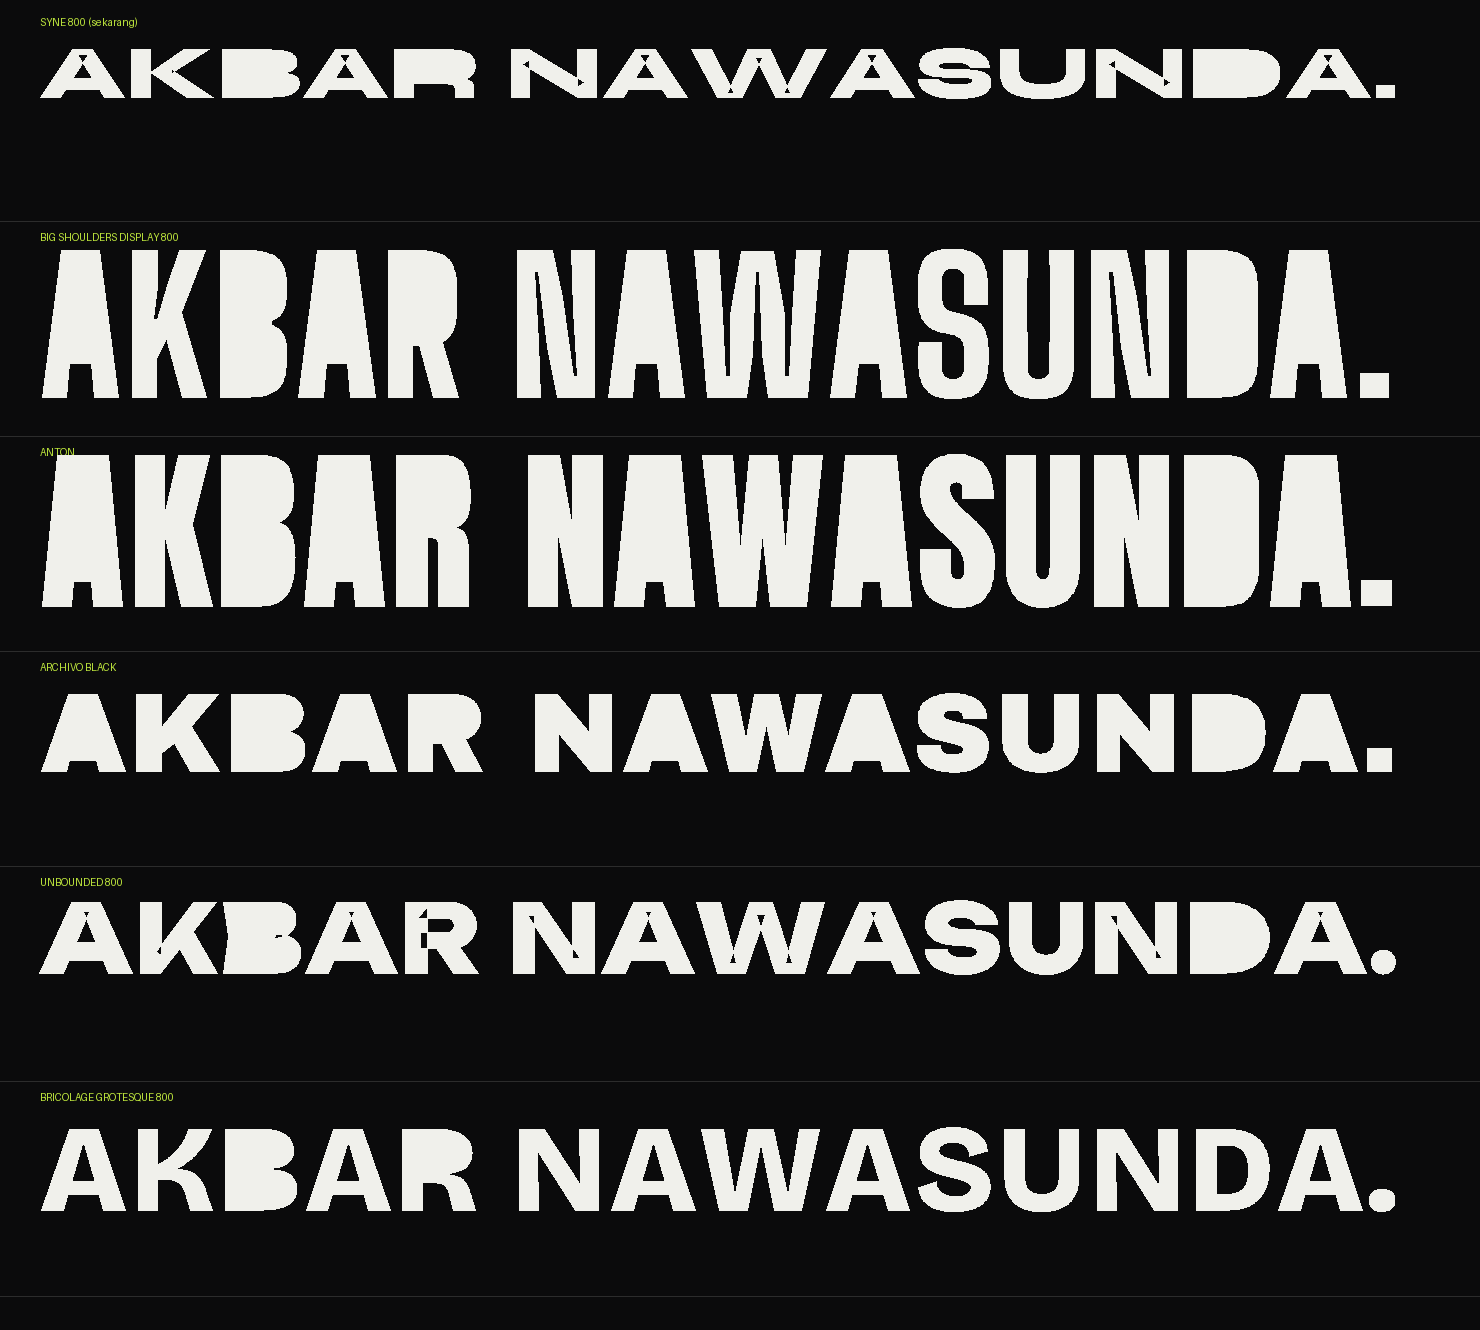
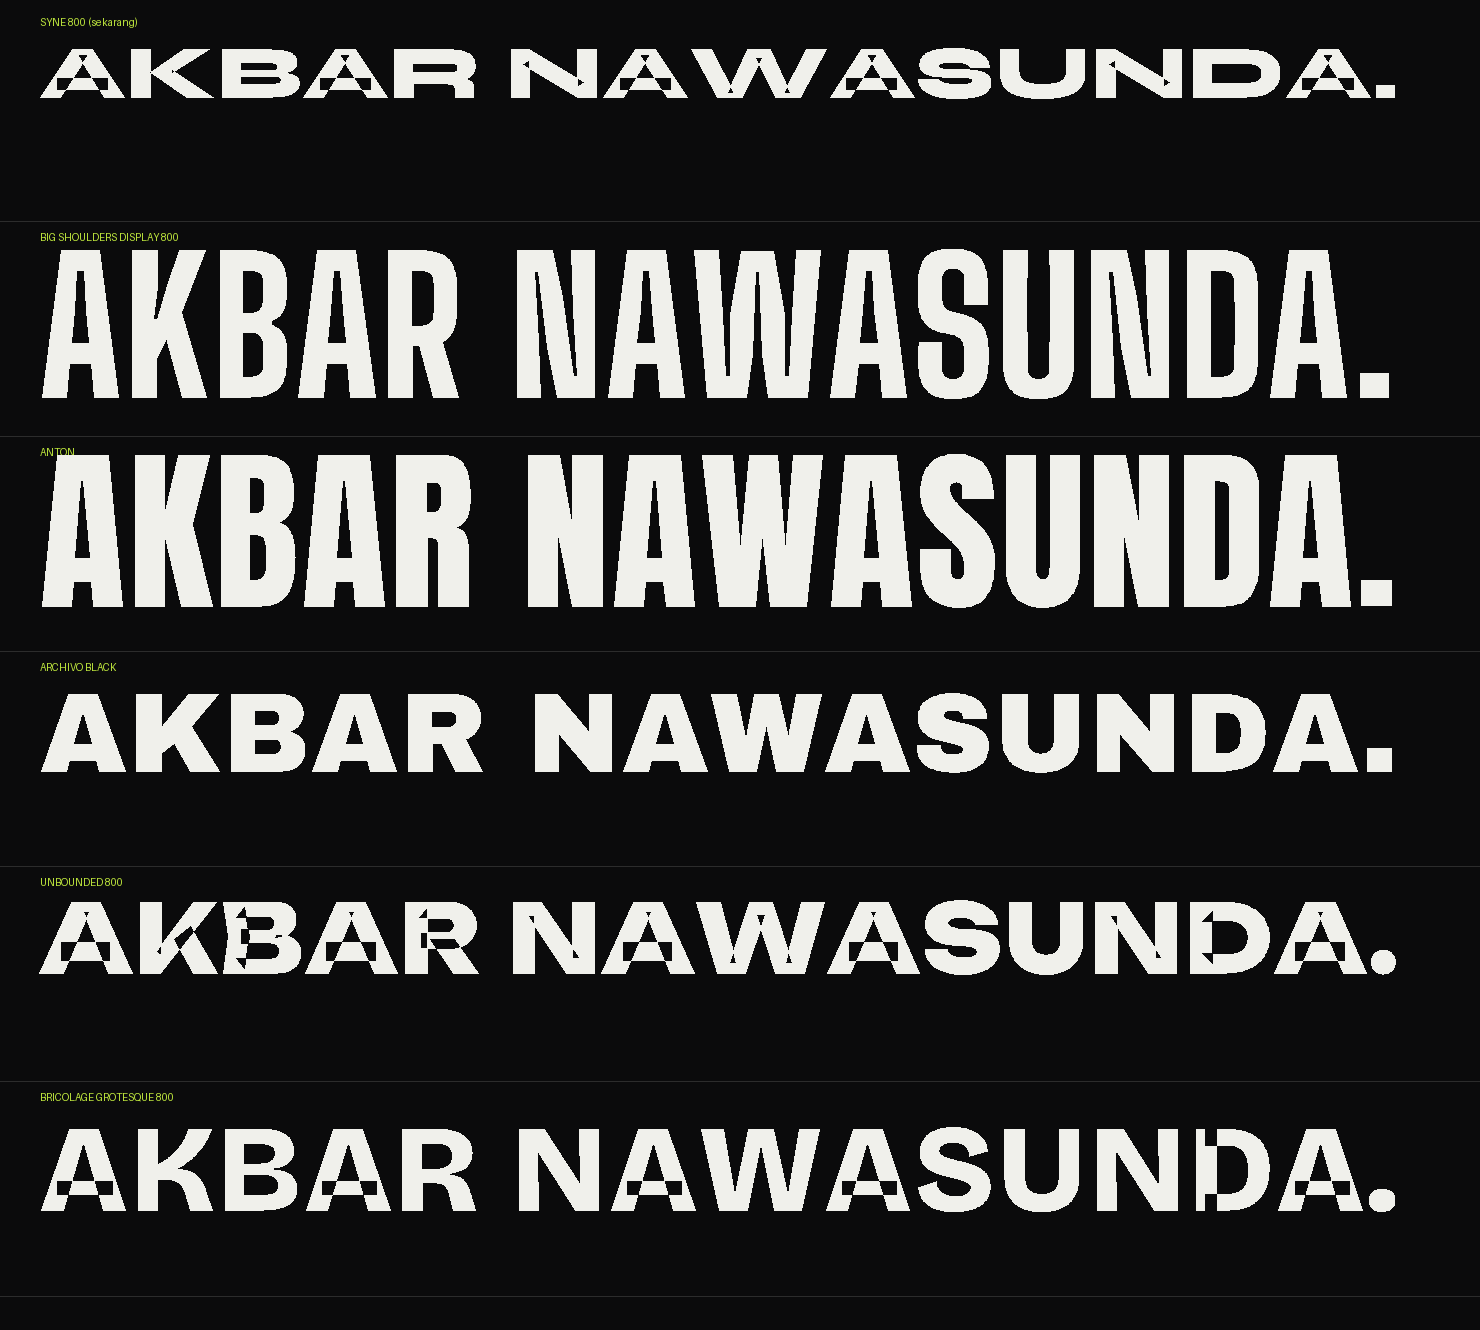
Fase 6F: splash tidak lagi terpotong di desktop, versi ringkas untuk kunjungan ulang, bukti font dirender ulang

diff --git a/client/index.html b/client/index.html
@@ -94,7 +94,9 @@
       .an-splash-inner {
         position: relative;
         z-index: 1;
-        width: min(92%, 560px);
+        /* 1100px, bukan 560px: wordmark splash jauh lebih besar sejak
+           Fase 6E dan kotak lama memotongnya di desktop. */
+        width: min(92vw, 1100px);
         padding: 0 4vw;
       }
       .an-splash-top {
@@ -141,15 +143,22 @@
           -apple-system,
           sans-serif;
         font-weight: 800;
-        font-size: clamp(4.4rem, 25vw, 12rem);
+        /* Ukuran DITURUNKAN dari lebar kotaknya sendiri, bukan ditebak dari
+           lebar layar. "Nawasunda" memakai 4,53em pada tracking +0,02em
+           (diukur dari big-shoulders-display-800.woff2); pembagi 4,6 memberi
+           sisa ±1,5%. Dengan rumus ini kata itu MUSTAHIL terpotong di lebar
+           berapa pun — inilah penyebab splash kepotong di desktop tapi utuh
+           di ponsel. */
+        font-size: max(2.4rem, calc((min(92vw, 1100px) - 8vw) / 4.6));
         line-height: 0.94;
         letter-spacing: 0.02em;
         text-transform: uppercase;
         transform: translateY(105%);
-        animation: an-splash-rise 0.86s cubic-bezier(0.16, 1, 0.3, 1) forwards;
+        animation: an-splash-rise 0.72s cubic-bezier(0.16, 1, 0.3, 1) 0.3s
+          forwards;
       }
       .an-splash-line:nth-child(3) .an-splash-word {
-        animation-delay: 0.08s;
+        animation-delay: 0.4s;
       }
       @keyframes an-splash-rise {
         to {
@@ -165,13 +174,41 @@
         line-height: 1.9;
         color: #9bb9c1;
         clip-path: inset(0 100% 0 0);
-        animation: an-splash-write 0.9s cubic-bezier(0.22, 1, 0.36, 1) 0.22s
-          forwards;
+        /* Beat pertama: aksara ditulis lebih dulu, baru nama Latin naik.
+           Yang memimpin layar pembuka adalah identitasnya, bukan wordmark. */
+        animation: an-splash-write 0.62s cubic-bezier(0.22, 1, 0.36, 1) forwards;
       }
       @keyframes an-splash-write {
         to {
           clip-path: inset(0 0 0 0);
         }
+      }
+
+      /* Versi ringkas (kunjungan ke-2 dalam satu sesi): isi pendukung
+         disembunyikan, sekuens dipercepat ±3×. Tetap nama dalam aksara,
+         tetap satu gerakan — hanya lebih singkat. */
+      #akbar-preloader.an-splash-quick .an-splash-top,
+      #akbar-preloader.an-splash-quick .an-splash-steps,
+      #akbar-preloader.an-splash-quick .an-splash-meter,
+      #akbar-preloader.an-splash-quick .an-splash-caption,
+      #akbar-preloader.an-splash-quick .an-splash-birthday {
+        display: none;
+      }
+      #akbar-preloader.an-splash-quick .an-splash-aksara {
+        animation-duration: 0.26s;
+      }
+      #akbar-preloader.an-splash-quick .an-splash-word {
+        animation-duration: 0.3s;
+        animation-delay: 0.12s;
+      }
+      #akbar-preloader.an-splash-quick
+        .an-splash-line:nth-child(3)
+        .an-splash-word {
+        animation-delay: 0.18s;
+      }
+      #akbar-preloader.an-splash-quick .an-splash-rule {
+        animation-duration: 0.34s;
+        animation-delay: 0.22s;
       }
 
       /* Pola langkah drum: delapan ketukan yang menyala berurutan. */
@@ -230,7 +267,7 @@
         background: #9bb9c1;
         transform-origin: left center;
         transform: scaleX(0);
-        animation: an-splash-wipe 1.1s cubic-bezier(0.22, 1, 0.36, 1) 0.18s
+        animation: an-splash-wipe 0.78s cubic-bezier(0.22, 1, 0.36, 1) 0.62s
           forwards;
       }
       @keyframes an-splash-wipe {
@@ -348,8 +385,8 @@
           >ᮃᮊ᮪ᮘᮁ ᮔᮝᮞᮥᮔ᮪ᮓ</span
         >
         <div class="an-splash-steps" aria-hidden="true">
-          <span></span><span></span><span></span><span></span>
-          <span></span><span></span><span></span><span></span>
+          <span></span><span></span><span></span><span></span> <span></span
+          ><span></span><span></span><span></span>
         </div>
         <div class="an-splash-rule" aria-hidden="true"></div>
         <div class="an-splash-meter" aria-hidden="true">
@@ -430,7 +467,8 @@
               var out = {};
               var parts = jakartaFormat.formatToParts(date);
               for (var i = 0; i < parts.length; i++) {
-                if (parts[i].type !== "literal") out[parts[i].type] = parts[i].value;
+                if (parts[i].type !== "literal")
+                  out[parts[i].type] = parts[i].value;
               }
               return {
                 h: Number(out.hour) % 24,
@@ -473,9 +511,16 @@
               pad(stamp.h) + "." + pad(stamp.m) + "." + pad(stamp.s);
           }
           if (dateEl) {
-            var day = stamp.weekday ? stamp.weekday.toUpperCase().slice(0, 3) + " · " : "";
+            var day = stamp.weekday
+              ? stamp.weekday.toUpperCase().slice(0, 3) + " · "
+              : "";
             dateEl.textContent =
-              day + stamp.day + " " + MONTHS[stamp.month - 1].toUpperCase() + " " + stamp.year;
+              day +
+              stamp.day +
+              " " +
+              MONTHS[stamp.month - 1].toUpperCase() +
+              " " +
+              stamp.year;
           }
           // 1 November waktu Jakarta: situs merayakan sendiri, tiap tahun.
           if (stamp.month === 11 && stamp.day === 1) {
@@ -496,18 +541,27 @@
           }
         }
 
-        if (seen || reduced) {
+        if (reduced) {
           window.__dismissAkbarPreloader = drop;
           drop();
           return;
         }
 
+        // Kunjungan kedua dalam satu sesi TIDAK lagi melewatkan splash diam-
+        // diam — dulu inilah sebabnya layar pembuka terasa "tidak ada" di
+        // desktop (sekali reload, hilang selamanya sampai tab ditutup).
+        // Sekarang ia tampil ringkas: hanya aksara + nama, ±0,46 dtk.
+        if (seen) preloader.classList.add("an-splash-quick");
+
         var dismissed = false;
         var shownAt = Date.now();
         // Durasi splash: minimal 1.4 detik supaya seluruh sekuens terbaca,
         // dan tidak pernah lebih dari 2.2 detik.
-        var MIN_VISIBLE = 1400;
-        var MAX_VISIBLE = 2200;
+        // Sekuens penuh selesai di ±1,25 dtk (aksara 0-0,62; nama 0,3-1,12;
+        // garis 0,62-1,40). MIN_VISIBLE tidak boleh lebih pendek dari itu,
+        // kalau tidak animasinya terpotong di tengah pada koneksi cepat.
+        var MIN_VISIBLE = seen ? 460 : 1450;
+        var MAX_VISIBLE = seen ? 900 : 2200;
 
         // Angka durasi = waktu yang benar-benar berjalan sejak splash tampil.
         function paintProgress() {

diff --git a/server/editorialRedesign.test.ts b/server/editorialRedesign.test.ts
@@ -189,14 +189,20 @@ describe("aset statis redesign", () => {
   const read = (path: string) =>
     readFileSync(resolve(process.cwd(), path), "utf8");
 
-  it("splash hanya tampil sekali per sesi dan punya batas durasi jelas", () => {
+  it("splash punya versi penuh dan versi ringkas dengan batas durasi jelas", () => {
     const indexHtml = read("client/index.html");
     expect(indexHtml).toContain("an-splash-seen");
     expect(indexHtml).toContain("sessionStorage");
-    // Batas durasi splash: minimal 1.4 detik agar sekuens tanda tangan
-    // terbaca, maksimal 2.2 detik sebagai jaring pengaman.
-    expect(indexHtml).toContain("MIN_VISIBLE = 1400");
-    expect(indexHtml).toContain("MAX_VISIBLE = 2200");
+    // KONTRAK BERUBAH (Fase 6F, disengaja): kunjungan kedua dalam satu sesi
+    // dulu melewatkan splash sepenuhnya, dan itu membuat layar pembuka
+    // terasa "tidak ada" di desktop (sekali reload, hilang sampai tab
+    // ditutup). Sekarang kunjungan kedua mendapat versi RINGKAS 460ms,
+    // bukan tidak sama sekali. Kunjungan pertama naik 1400 → 1450ms karena
+    // sekuensnya kini berakhir di ±1,40 dtk; di 1400ms garis terakhirnya
+    // terpotong.
+    expect(indexHtml).toContain("MIN_VISIBLE = seen ? 460 : 1450");
+    expect(indexHtml).toContain("MAX_VISIBLE = seen ? 900 : 2200");
+    expect(indexHtml).toContain("an-splash-quick");
     expect(indexHtml).toMatch(/prefers-reduced-motion: reduce/);
   });
 

diff --git a/docs/phase6f-splash-dan-pertanyaan-font.md b/docs/phase6f-splash-dan-pertanyaan-font.md
@@ -1,0 +1,88 @@
+# Fase 6F — Splash kepotong, splash "tidak ada", dan jawaban soal sumber font
+
+## 1. "Bisa ambil font selain Google Fonts?"
+
+[FACT] Bisa, dan situs ini **sudah** melakukannya: Clash Display, General
+Sans, dan Azeret Mono berasal dari **Fontshare** (Indian Type Foundry), bukan
+Google. Semua font disimpan sebagai berkas di repo
+(`client/public/assets/fonts/`) dan tidak pernah dipanggil dari CDN mana pun.
+
+[FACT] Batasan yang jujur: dari dalam sandbox ini **hanya registry npm yang
+bisa dijangkau** — `api.fontshare.com`, `raw.githubusercontent.com`, dan
+`fonts.gstatic.com` semuanya gagal tersambung (diuji dengan curl; hanya
+`registry.npmjs.org` menjawab 200). Jadi untuk saat ini saya hanya bisa
+mengambil huruf yang diterbitkan ke npm. Itu tetap jauh lebih luas daripada
+Google Fonts: Uncut Sans (uncut.wtf), Commit Mono, Monaspace (GitHub), Geist
+(Vercel) semuanya ada di npm dan bukan huruf Google. Kalau Anda ingin huruf
+berbayar/khusus (Pangram Pangram, Displaay, Grilli, atau huruf pesanan),
+berkasnya cukup Anda kirimkan — pemasangannya sama saja.
+
+## 2. "Font keseluruhan berasa kurang"
+
+[FACT] Saya uji dugaan itu, bukan menuruti atau menolaknya:
+`docs/notes/body-voice-candidates.png` memperlihatkan paragraf dan label yang
+sama dalam tiga pasangan — General Sans + Azeret Mono (sekarang), Uncut Sans
++ Commit Mono, Uncut Sans + Monaspace Neon.
+
+[INTERP] Kesimpulan saya setelah melihatnya: **perbedaannya tipis sekali.**
+Mengganti huruf badan teks tidak akan menyelesaikan rasa "kurang khas"; ia
+hanya memindahkan netralitas dari satu grotesk ke grotesk lain, sambil
+menambah berat unduh dan risiko keterbacaan. Yang benar-benar mengubah watak
+halaman adalah huruf judul (sudah diganti di Fase 6E) dan **cara menyetelnya**
+— ukuran, jarak, warna, ritme. Karena itu saya tidak mengganti huruf badan
+teks, dan ini keputusan, bukan penundaan.
+
+[FACT] Catatan teknis dari proses ini: perender pratinjau saya semula mengisi
+lubang huruf (counter) karena memakai aturan nonzero. Sudah diperbaiki ke
+even-odd, dan **kedua gambar bukti dirender ulang**
+(`display-candidates.png`, `body-voice-candidates.png`). Keputusan Fase 6E
+tetap berdiri setelah render yang benar.
+
+## 3. "Loading kepotong di desktop, lengkap di mobile" — BUG
+
+[FACT] Aritmetikanya: kata "Nawasunda" memakai **4,53em** pada tracking
++0,02em (diukur dari `big-shoulders-display-800.woff2`), sedangkan kotak
+splash dipatok `width: min(92%, 560px)` dengan padding `0 4vw`. Di layar
+1440px kotaknya ±445px bersih, sementara kata itu ±870px. Jadi memang
+terpotong — dan di ponsel kotaknya mengikuti lebar layar, jadi utuh. Persis
+seperti yang Anda lihat.
+[FACT] Perbaikan: kotak jadi `min(92vw, 1100px)`, dan ukuran hurufnya
+**diturunkan dari lebar kotak itu sendiri**:
+`font-size: max(2.4rem, calc((min(92vw, 1100px) - 8vw) / 4.6))`. Pembagi 4,6
+di atas lebar kata 4,53em memberi sisa ±1,5%. Dengan rumus ini kata itu tidak
+bisa terpotong di lebar layar berapa pun — bukan ditebak per breakpoint.
+`client/index.html`.
+
+## 4. "Animasi loading seperti tidak ada" — juga BUG, sebab lain
+
+[FACT] Splash disetel `sessionStorage` "sekali per sesi". Sekali Anda reload
+di desktop, splash tidak pernah muncul lagi sampai tab ditutup — sedangkan di
+ponsel sesinya biasanya baru, jadi selalu tampil penuh. Itu menjelaskan
+kenapa terasa "ada di mobile, hilang di web".
+[FACT] Perbaikan: kunjungan berikutnya tidak lagi melewatkan splash diam-
+diam, tapi mendapat **versi ringkas ±460ms** (`an-splash-quick`): hanya
+aksara + nama, isi pendukung disembunyikan, sekuens dipercepat ±3×. Jalur
+`prefers-reduced-motion` tetap: tidak ada splash sama sekali.
+[FACT] Sekuensnya juga ditata ulang supaya terbaca sebagai satu gerakan dan
+dipimpin identitas: **aksara ditulis dulu** (0–0,62 dtk) → nama Latin naik
+(0,30–1,12) → garis signal menyapu (0,62–1,40). `MIN_VISIBLE` 1400 → **1450**
+karena di 1400 ms garis terakhir masih terpotong.
+
+[FACT] **Kontrak tes berubah dengan sengaja**: `server/editorialRedesign.test.ts`
+dulu memaku `MIN_VISIBLE = 1400` / `MAX_VISIBLE = 2200` dan judul "splash
+hanya tampil sekali per sesi". Sekarang memaku pasangan penuh/ringkas
+(`seen ? 460 : 1450`, `seen ? 900 : 2200`) dan keberadaan `an-splash-quick`.
+
+## Verifikasi
+
+[FACT] `pnpm check` 0 galat · `vitest` 56 berkas / **330 tes** ·
+`audit-layout` **0 pelanggaran** · `pnpm build` · server di-restart ·
+`verify-ssr` **32/32 ALL GREEN** · HTML terlayani memuat `an-splash-quick`
+dan rumus lebar barunya.
+
+## Yang masih belum terbukti
+
+[FACT] Tanpa browser di sandbox, yang dijamin adalah **aritmetika lebarnya**
+(kata tidak mungkin melebihi kotak) dan **urutan waktunya** (sekuens selesai
+1,40 dtk < 1,45 dtk tampil minimum). Kehalusan gerakannya sendiri belum
+pernah saya lihat berjalan.
